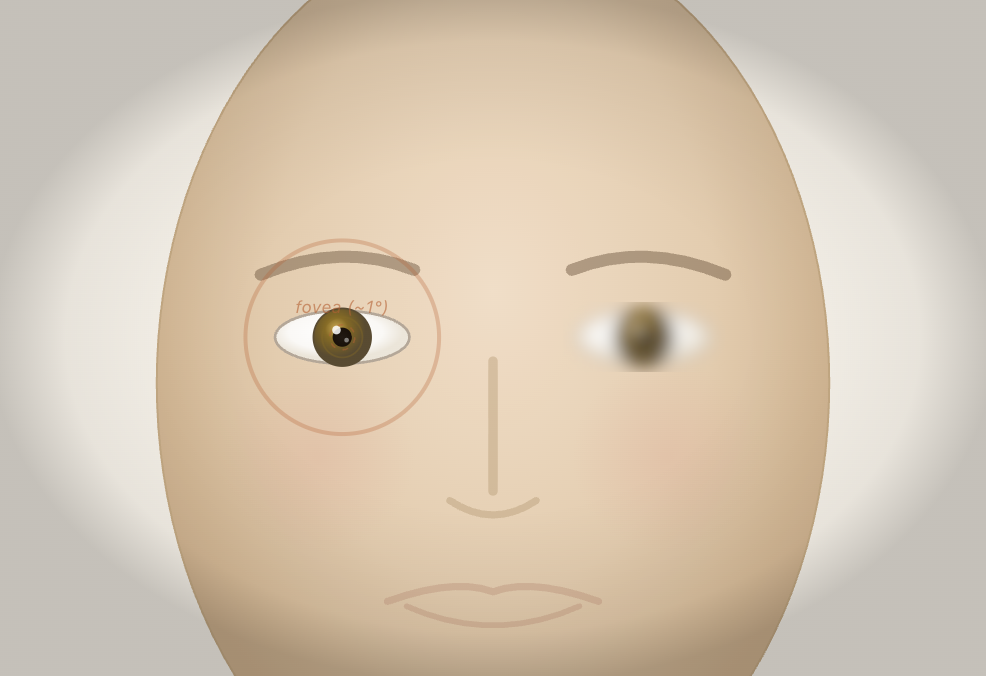
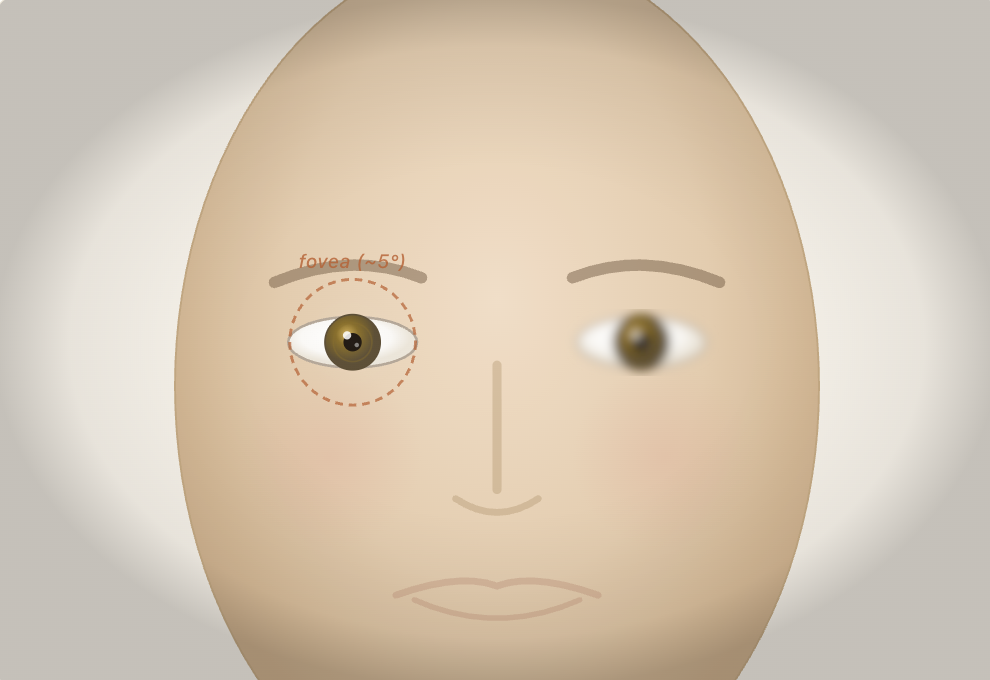
Update hero image, default to imperial, bolder fovea circle

diff --git a/src/components/EyeConvergence.tsx b/src/components/EyeConvergence.tsx
@@ -114,13 +114,6 @@ function FaceEye({
       <circle cx={cx - irisR * 0.2} cy={cy - irisR * 0.25} r={irisR * 0.15} fill="white" opacity={0.85} />
       <circle cx={cx + irisR * 0.15} cy={cy + irisR * 0.1} r={irisR * 0.08} fill="white" opacity={0.45} />
 
-      {/* Focus ring */}
-      {focused && (
-        <circle cx={cx} cy={cy} r={rx * 1.35} fill="none" stroke={C.focusRing} strokeWidth={Math.max(0.8, rx * 0.06)} opacity={0.5}>
-          <animate attributeName="r" values={`${rx * 1.3};${rx * 1.5};${rx * 1.3}`} dur="2.5s" repeatCount="indefinite" />
-          <animate attributeName="opacity" values="0.5;0.2;0.5" dur="2.5s" repeatCount="indefinite" />
-        </circle>
-      )}
     </g>
   );
 }
@@ -144,7 +137,7 @@ function rangeLabels(units: UnitSystem): [string, string] {
 export default function EyeConvergence() {
   const [focus, setFocus] = useState<FocusTarget>('left');
   const [distCm, setDistCm] = useState(30);
-  const [units, setUnits] = useState<UnitSystem>('metric');
+  const [units, setUnits] = useState<UnitSystem>('imperial');
 
   const [mounted, setMounted] = useState(false);
   useEffect(() => {
@@ -336,9 +329,9 @@ export default function EyeConvergence() {
         </g>
 
         {/* Foveal circle */}
-        <circle cx={focusedX} cy={eyeY} r={FOVEA_R} fill="url(#fovea-glow)" stroke={C.accent} strokeWidth={0.8} strokeDasharray="3 4" opacity={0.5} style={{ transition: 'cx 0.3s ease' }} />
+        <circle cx={focusedX} cy={eyeY} r={FOVEA_R} fill="url(#fovea-glow)" stroke={C.accent} strokeWidth={1.5} strokeDasharray="4 3" opacity={0.7} style={{ transition: 'cx 0.3s ease' }} />
         {FOVEA_R > 6 && (
-          <text x={focusedX} y={eyeY - FOVEA_R - 6} textAnchor="middle" fontSize="9" fill={C.accent} opacity={0.6} fontStyle="italic" style={{ transition: 'x 0.3s ease' }}>
+          <text x={focusedX} y={eyeY - FOVEA_R - 6} textAnchor="middle" fontSize="10" fill={C.accent} opacity={0.8} fontWeight={500} fontStyle="italic" style={{ transition: 'x 0.3s ease' }}>
             fovea (~5°)
           </text>
         )}
